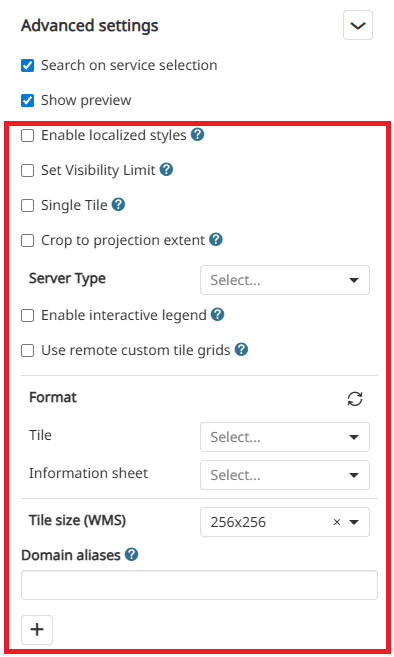
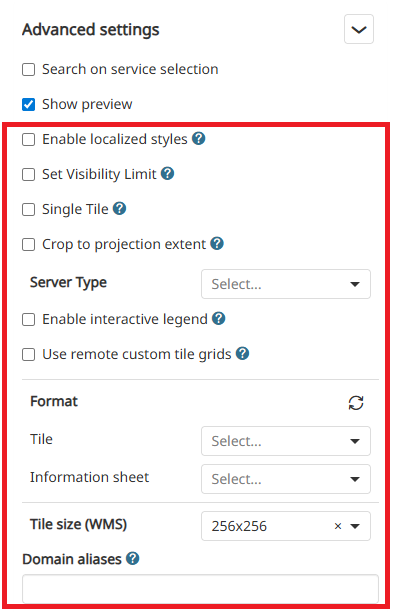
Update User Guide - Add cropping WMS Layers to map projection extent options (#12698)
(cherry picked from commit e9a09ecf30eb22222b0ff44369f660ba6a355d8a)

diff --git a/docs/user-guide/background.md b/docs/user-guide/background.md
@@ -43,6 +43,8 @@ In particular, from this window, the user can perform the following operations:
 
 * Choose the **Style**, between the ones available for that layer
 
+* Enable/disable the *Crop to projection extent*.  If enabled, the background is cropped to the current map projection extent defined in MapStore.
+
 * Enable/disable the use of the layer cached tiles. If checked, the *Tiled=true* URL parameter will be added to the WMS request to [use tiles cached with GeoWebCache](https://docs.geoserver.org/latest/en/user/geowebcache/using.html#direct-integration-with-geoserver-wms).
 When the *Use cache options* is enabled, more controls are enabled so that it is possible for the user to check if the current map settings match any GWC ***standard*** Gridset defined on the server side for the given WMS layer (**Check available tile grids information** <img src="../img/button/update_button.jpg" class="ms-docbutton"/>). At the same time, it is also possible to change the setting strategy (based on the WMTS service response) to strictly adapt layer settings on the client side to the ones matching any remote ***custom*** Gridset defined for the current map settings (**Use remote custom tile grids** <img src="../img/button/tile_grid.jpg" class="ms-docbutton"/> button). (More details on [Layer Settings](layer-settings.md#display) section.)
 

diff --git a/docs/user-guide/catalog.md b/docs/user-guide/catalog.md
@@ -238,6 +238,8 @@ Enabling that option, all layers added to the map from this catalog source will 
 
 * *Single Tile* (only for the WMS service): if checked, the layers loaded from the involved catalog source are rendered as a single tile. For layers already loaded on the map, it is possible to disable this option through the [Layer Settings](layer-settings.md#display) tool as usual.
 
+* *Crop to projection extent*: If enabled, the layers loaded from the involved catalog source are cropped to the current map projection extent defined. For layers already loaded on the map, it is also possible to enable this option through the [Layer Settings](https://mapstore.readthedocs.io/en/latest/user-guide/layer-settings/#display) tool.
+
 * *Allow not secure layers*: if enabled allows the unsecure catalog URLs to be used (http only). Adding layers from WMS sources with this option active will also force the layer to use the proxy for all the requests, skipping the mixed content limitation of the browser.
 
 * *Server Type*: to specify the server type of the used WMS service URL. Possible options are two: `Geoserver` or `No Vendor` which can be for example MapProxy, MapServer or other.

diff --git a/docs/user-guide/layer-settings.md b/docs/user-guide/layer-settings.md
@@ -84,6 +84,8 @@ In particular, the user is allowed to:
 
 * Enable/disable the *Force proxy* layer option. If enabled, forces the application to check the source and applies proxy if needed.
 
+* Enable/disable the *Crop to projection extent*.  If enabled, the layer is cropped to the current map projection extent selected.
+
 * Enable/disable the use of the layer cached tiles. If checked, the *Tiled=true* URL parameter will be added to the WMS request to [use tiles cached with GeoWebCache](https://docs.geoserver.org/latest/en/user/geowebcache/using.html#direct-integration-with-geoserver-wms).
 When the *Use cache options* is enabled, more controls are enabled so that it is possible for the user to check if the current map settings match any GWC ***standard*** Gridset defined on the server side for the given WMS layer (**Check available tile grids information** <img src="../img/button/update_button.jpg" class="ms-docbutton"/>). At the same time, it is also possible to change the setting strategy (based on the WMTS service response) to strictly adapt layer settings on the client side to the ones matching any remote ***custom*** Gridset defined for the current map settings (**Use remote custom tile grids** <img src="../img/button/tile_grid.jpg" class="ms-docbutton"/> button).
 